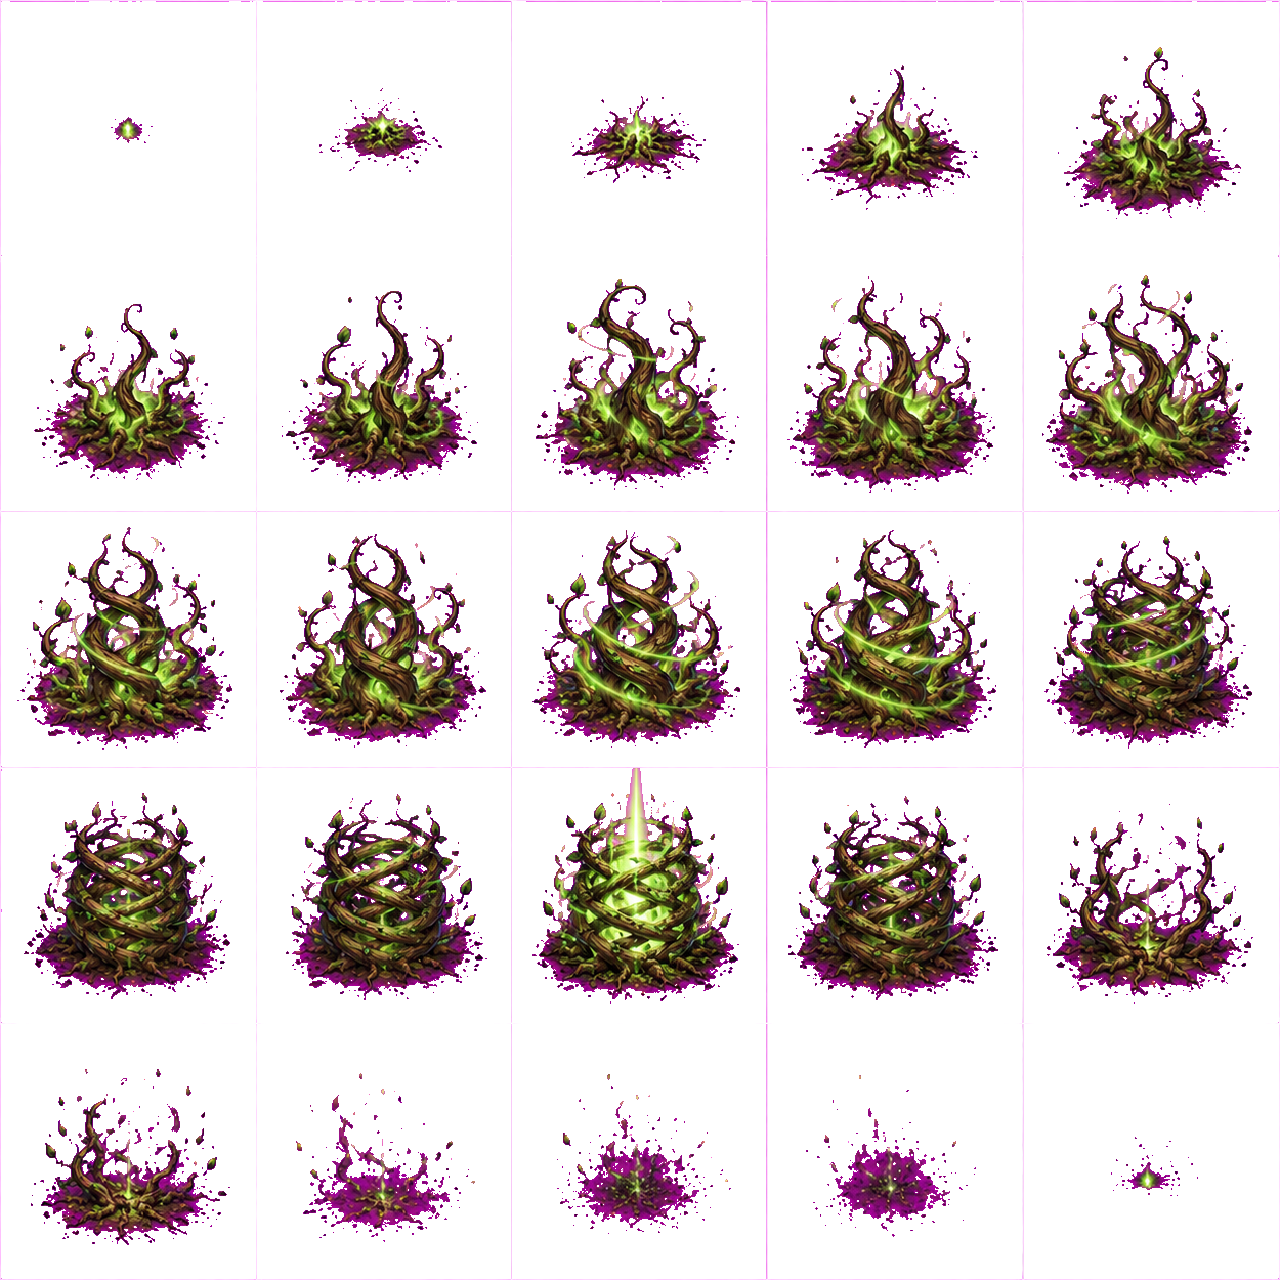
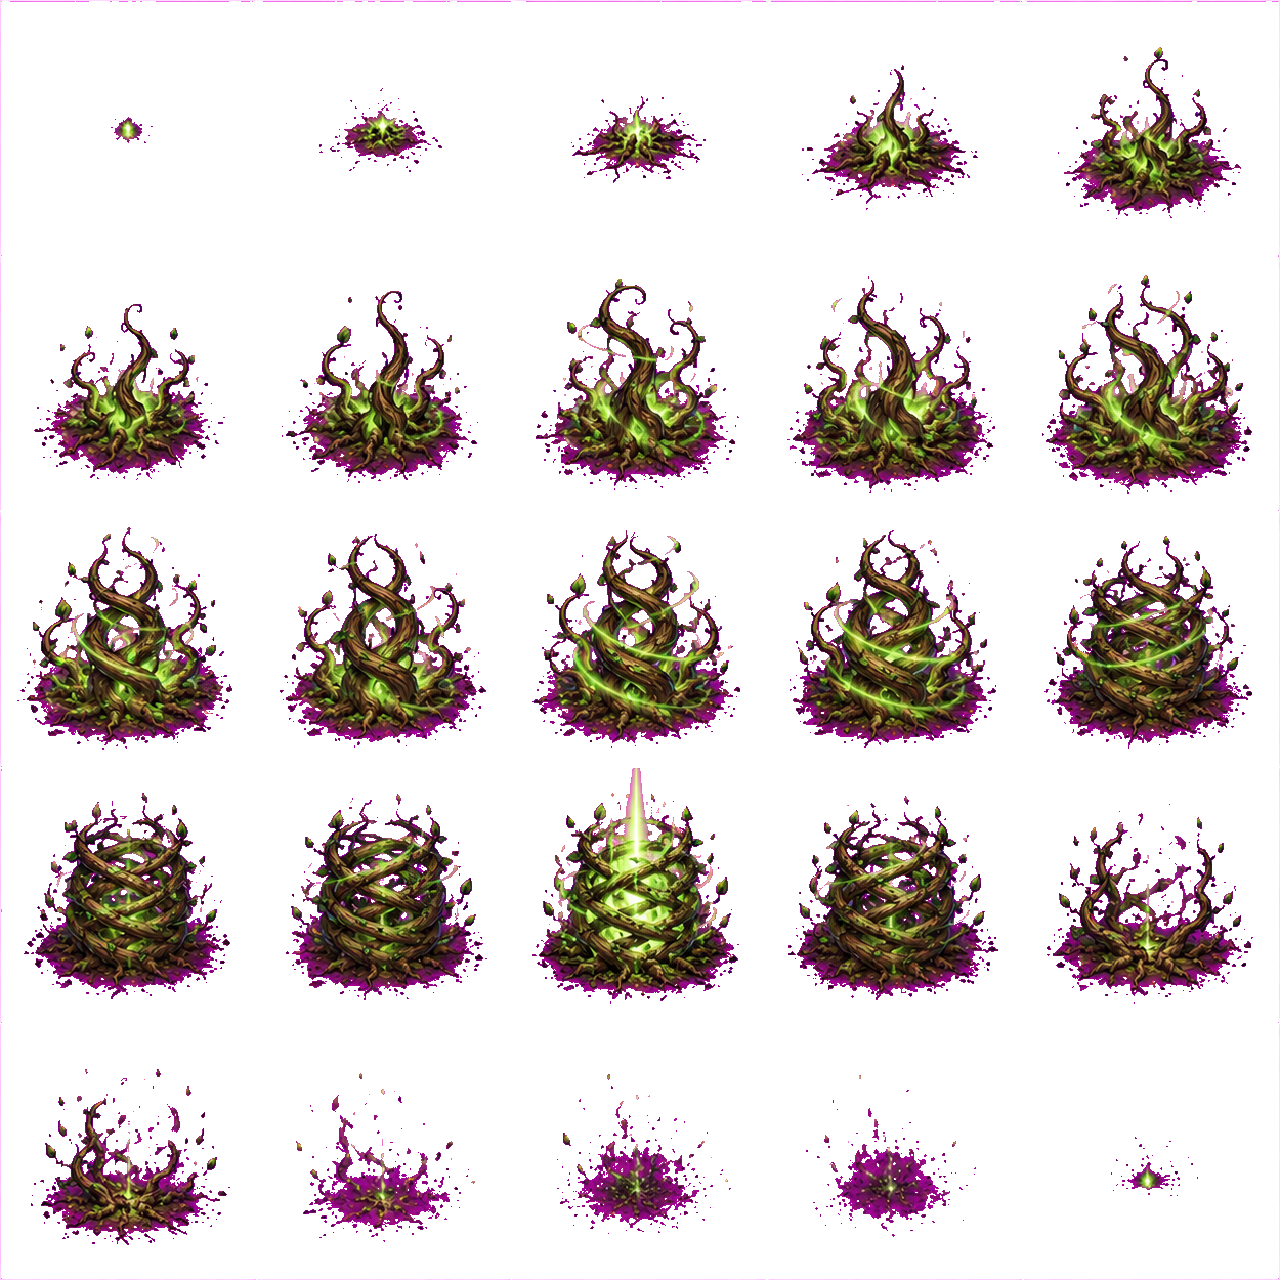
V10F-D: revive vial item, explosive retreat VFX origin, raw sprite cleanup
- Add revive_vial item (Fiole de resurrection, 50% HP revive)
- Revive item only consumed on successful revive, disabled when no KO ally
- ar_explosive_retreat uses origin point for VFX target, skips default hit/shake
- ro_tumble skips action VFX
- playActionVfx/makeActionVfxContext accept visualContext for custom targetPoint
- PNG magenta/separator band validation tests for root_vines and frost_bind
- Remove processed raw sprites (shadow_lightning_bolt, root_vines, frost_bind)

diff --git a/src/combat/legacyCombatRuntime.js b/src/combat/legacyCombatRuntime.js
@@ -658,6 +658,7 @@ const INNATE_GIFTS_BY_WEAPON={
   hand_cannon:{name:'Tir de Zone',desc:"25% des dégâts en zone sur les ennemis adjacents."}
 };
 const ITEMS={
+  revive_vial:{name:'Fiole de résurrection',effect:'revive',power:0.5,range:[0,1],radius:0,desc:'Relève un allié K.O. avec 50% de ses PV.'},
   potion:  {name:'Potion',  effect:'heal', flatHeal:55, range:[0,1], radius:0,   desc:'Rend 55 PV à un allié proche.'},
   ether:   {name:'Éther',   effect:'ap',   apRestore:3, range:[0,1], radius:0,   desc:'Rend 3 AP à un allié proche.'},
   antidote:{name:'Antidote',effect:'cure',              range:[0,1], radius:0,   desc:'Dissipe les altérations négatives d’un allié.'},
@@ -1367,11 +1368,11 @@ function getActionVfxPreset(spec={},u=null){
   if(spec.support)return 'bless_aura';
   return null;
 }
-function makeActionVfxContext(u,targets,cx,cz,spec={}){
+function makeActionVfxContext(u,targets,cx,cz,spec={},visualContext={}){
   const tuning=getActionPresentationTuning(spec),presentation=getSkillPresentation(spec),primary=targets&&targets[0];
-  const targetPoint=primary?.grp
+  const targetPoint=visualContext.targetPoint||(primary?.grp
     ?new THREE.Vector3(primary.grp.position.x,primary.grp.position.y,primary.grp.position.z)
-    :new THREE.Vector3(wX(cx),tileTop(cx,cz),wZ(cz));
+    :new THREE.Vector3(wX(cx),tileTop(cx,cz),wZ(cz)));
   return {
     scene,camera,sourceUnit:u,targetUnits:targets,
     targetPoint,
@@ -1385,12 +1386,12 @@ function makeActionVfxContext(u,targets,cx,cz,spec={}){
     helpers:{wait,screenShake,screenFlash,floatText,wX,wZ,tileTop}
   };
 }
-function playActionVfx(spec,u,targets,cx,cz){
+function playActionVfx(spec,u,targets,cx,cz,visualContext={}){
   const presetId=getActionVfxPreset(spec,u);
   if(!presetId)return null;
   const perTarget=presetId==='heal_burst'||presetId==='bless_aura'||presetId==='guard_barrier'||presetId==='support_holy_aura'||presetId==='arrow_rain';
   const visualTargets=(perTarget&&targets.length>1)?targets.map(target=>[target]):[targets];
-  const results=visualTargets.map(group=>combatVfxSystem.play(presetId,makeActionVfxContext(u,group,cx,cz,spec))).filter(result=>result.played);
+  const results=visualTargets.map(group=>combatVfxSystem.play(presetId,makeActionVfxContext(u,group,cx,cz,spec,visualContext))).filter(result=>result.played);
   if(!results.length)return null;
   const completion=Promise.all(results.map(result=>result.completion)).then(()=>undefined);
   void completion.catch(error=>console.warn('[CombatVfx] Action playback failed safely.',error));
@@ -1412,13 +1413,18 @@ function playFeedbackVfx(presetId,source,target){
   void result.completion.catch(error=>console.warn('[CombatVfx] Feedback playback failed safely.',error));
   return true;
 }
-async function attackAnim(u,spec,cx,cz,targets=[]){ const ctr=new THREE.Vector3(wX(cx),tileTop(cx,cz)+0.6,wZ(cz)); const presentation=getSkillPresentation(spec),preset=getActionMotionPreset(spec),isUltimate=Boolean(presentation?.ultimate),tuning=getActionPresentationTuning(spec),isBossSignature=tuning.tier===6,impactCount=presentation?.impactCount||1;
+async function attackAnim(u,spec,cx,cz,targets=[],actionContext={}){ const ctr=new THREE.Vector3(wX(cx),tileTop(cx,cz)+0.6,wZ(cz)); const presentation=getSkillPresentation(spec),preset=getActionMotionPreset(spec),isUltimate=Boolean(presentation?.ultimate),tuning=getActionPresentationTuning(spec),isBossSignature=tuning.tier===6,impactCount=presentation?.impactCount||1;
   const impact=async()=>{
     if(isUltimate){ floatText(u,'ULTIME','#ffd86a',true); screenFlash('#fff0b0',0.07); screenShake(0.20,0.14); }
     else if(isBossSignature){ floatText(u,'SIGNATURE','#ffb36a',true); screenFlash('#ffb36a',0.055); screenShake(0.22,0.16); }
     if(spec.key!=='attack')castTelegraph(u,spec);
-    const generated=playActionVfx(spec,u,targets,cx,cz);
-    if(generated){ for(let i=1;i<impactCount;i++){ await wait(0.10); playActionVfx(spec,u,targets,cx,cz); } await wait(generated.impactTime+tuning.afterEffectDelay); return; }
+    if(spec.key==='ro_tumble')return;
+    const origin=actionContext.origin;
+    const visualContext=spec.key==='ar_explosive_retreat'&&origin
+      ?{targetPoint:new THREE.Vector3(wX(origin.gx),tileTop(origin.gx,origin.gz),wZ(origin.gz))}
+      :{};
+    const generated=playActionVfx(spec,u,targets,cx,cz,visualContext);
+    if(generated){ for(let i=1;i<impactCount;i++){ await wait(0.10); playActionVfx(spec,u,targets,cx,cz,visualContext); } await wait(generated.impactTime+tuning.afterEffectDelay); return; }
     if(spec.heal||spec.revive||spec.support||spec.apRestore||spec.cure){
       const type=(spec.type==='debuff')?'dark':'heal';
       for(const [gx,gz] of aoeCells(u,spec,cx,cz))vfx(type,new THREE.Vector3(wX(gx),tileTop(gx,gz)+0.6,wZ(gz)));
@@ -1456,7 +1462,10 @@ async function doMove(u,spec,cx,cz){ setFacing(u,cx,cz); const c=cellAt(cx,cz); 
   }
   else if(spec.mode==='leap'){
     const from=u.grp.position.clone(); placeUnit(u,cx,cz); await tweenP(u.grp.position,{x:(from.x+dest.x)/2,y:Math.max(from.y,dest.y)+motion.jumpHeight,z:(from.z+dest.z)/2},motion.jumpUp,easeOutCubic); await tweenP(u.grp.position,{x:dest.x,y:dest.y,z:dest.z},motion.jumpDown,easeInOut);
-    const preset=getActionVfxPreset(spec,u); if(preset==='leap_impact')playActionVfxAt(preset,u,head,spec); else vfx('hit',head); screenShake(0.32,0.22);
+    const preset=getActionVfxPreset(spec,u);
+    if(preset==='leap_impact')playActionVfxAt(preset,u,head,spec);
+    else if(spec.key!=='ar_explosive_retreat')vfx('hit',head);
+    if(spec.key!=='ar_explosive_retreat')screenShake(0.32,0.22);
   }
   else { placeUnit(u,cx,cz); await tweenP(u.grp.position,{x:dest.x,y:dest.y,z:dest.z},motion.dash||0.2,easeOutCubic); screenShake(0.5,0.3); screenFlash('#fff0b0',0.16); vfx('hit',head);
     if(spec.impact){ const hits=aliveUnits().filter(t=>t.team!==u.team&&(Math.abs(t.gx-cx)+Math.abs(t.gz-cz)===1)); for(const t of hits){ const impactSpec={type:'phys',power:spec.power||8}; const crit=Math.random()<critChance(u,t,impactSpec); let {dmg}=computeDamage(u,t,impactSpec); if(crit)dmg=Math.round(dmg*1.5); floatText(t,(crit?'✦ ':'')+'-'+dmg,crit?'#ffd700':'#ffffff',crit); if(crit){ if(!playFeedbackVfx('critical_hit',u,t)){ screenShake(0.5,0.3); screenFlash('#fff3b0',0.18); vfx('crit',t.grp.position.clone().add(new THREE.Vector3(0,1,0))); } logMsg('Coup critique !'); } await applyDamage(t,dmg,u); if(G.over)break; if(t.alive&&crit&&isBreakOpen(t)){ applyStatus(t,'staggered',1); logMsg('Coup critique sur cible essoufflée — Brisé !'); } if(t.alive&&spec.impact.status)applyStatus(t,spec.impact.status,spec.impact.statusTurns); await wait(0.06); } } }
@@ -1570,8 +1579,8 @@ async function executeAction(u,spec,cx,cz){ unitFocus.restore(); hideActionPrevi
   if(spec.key==='attack'&&spec.weaponType==='rapier'&&targets.length){ const t=targets[0]; const dist=Math.abs((u.size>1?bossCenterGX(u):u.gx)-t.gx)+Math.abs((u.size>1?bossCenterGZ(u):u.gz)-t.gz); spec.type=dist>=2?'mag':'phys'; }
   logMsg(u.name+' → '+spec.name);
   await combatStageEnter(u,targets,spec);
-  await attackAnim(u,spec,impactCx,impactCz,targets);
-  if(spec.item&&spec.itemId)G.inv[spec.itemId]=Math.max(0,(G.inv[spec.itemId]||0)-1);
+  await attackAnim(u,spec,impactCx,impactCz,targets,context);
+  if(spec.item&&spec.itemId&&!spec.revive)G.inv[spec.itemId]=Math.max(0,(G.inv[spec.itemId]||0)-1);
   // Process effects[] if present (multi-effect system)
   if(spec.effects&&spec.effects.length){
     let totalDamageDealt=0;
@@ -1611,7 +1620,7 @@ async function executeAction(u,spec,cx,cz){ unitFocus.restore(); hideActionPrevi
     const lsEffect=spec.effects.find(e=>e.kind==='lifesteal');
     if(lsEffect&&totalDamageDealt>0&&u.alive){ const lsPct=lsEffect.lifestealPercent||0; const healAmt=Math.round(totalDamageDealt*lsPct); if(healAmt>0){ applyHeal(u,healAmt); } }
   } else if(spec.heal){ for(const t of targets)applyHeal(t,spec.healPercent!=null?Math.round(t.maxhp*spec.healPercent):(spec.flatHeal!=null?spec.flatHeal:Math.round(effMAG(u)*spec.power))+Math.floor(effCHA(u)/4)); await wait(0.25); }
-  else if(spec.revive){ for(const t of targets)reviveUnit(t,Math.round(t.maxhp*spec.power)); await wait(0.25); }
+  else if(spec.revive){ let revived=0; for(const t of targets){ if(!t.alive&&t.downed&&t.team===u.team){ reviveUnit(t,Math.round(t.maxhp*spec.power)); revived++; } } if(revived>0&&spec.item&&spec.itemId)G.inv[spec.itemId]=Math.max(0,(G.inv[spec.itemId]||0)-1); await wait(0.25); }
   else if(spec.apRestore){ for(const t of targets){ t.ap=Math.min(t.maxap,t.ap+spec.apRestore); floatText(t,'+'+spec.apRestore+' AP','#7fd0ff',true); flashUnit(t,'#bfe0ff'); refreshPanel(t); } await wait(0.25); }
   else if(spec.cure){ for(const t of targets){ let n=0; for(const s in t.statuses){ if(isNegative(s)){ delete t.statuses[s]; n++; } } floatText(t,n?'PURIFIÉ':'—',n?'#7ed957':'#cfd6e6',true); flashUnit(t,'#bfffc0'); refreshPanel(t); } await wait(0.25); }
   else { let basicDmg=0; for(const t of targets){ const friendly=t.team===u.team;
@@ -1961,6 +1970,7 @@ function openSkillMenu(){ const u=G.active; dom.skillmenu.classList.remove('hidd
   dom.skillmenu.innerHTML=h; dom.skillmenu.querySelectorAll('.btn').forEach(b=>b.onclick=()=>{ if(b.classList.contains('dis'))return; const id=b.dataset.s; if(id==='_back'){ dom.skillmenu.classList.add('hidden'); return; } enterTarget(getSpec(u,id)); }); }
 function itemSpec(id){ const it=ITEMS[id]; const base={key:'item',itemId:id,name:it.name,ap:1+G.itemsUsedThisTurn,range:it.range,radius:it.radius||0,self:false,item:true,desc:it.desc};
   if(it.effect==='heal')  return Object.assign(base,{type:'heal',power:0,heal:true,support:true,flatHeal:it.flatHeal});
+  if(it.effect==='revive')return Object.assign(base,{type:'revive',power:it.power||0.5,revive:true,support:true,targetMode:'ally'});
   if(it.effect==='ap')    return Object.assign(base,{type:'buff',power:0,support:true,apRestore:it.apRestore});
   if(it.effect==='cure')  return Object.assign(base,{type:'buff',power:0,support:true,cure:true});
   if(it.effect==='bomb')  return Object.assign(base,{type:'mag', power:0,offensive:true,acc:1,flatDmg:it.flatDmg});
@@ -1968,7 +1978,7 @@ function itemSpec(id){ const it=ITEMS[id]; const base={key:'item',itemId:id,name
   return base; }
 function invCount(){ let n=0; for(const k in G.inv)n+=G.inv[k]; return n; }
 function openItemMenu(){ const u=G.active; dom.skillmenu.classList.remove('hidden'); const nextCost=G.itemsUsedThisTurn+1; let h='<div class="ttl">Objets — sac commun · '+u.ap+' AP</div>'; let any=false;
-  for(const id in ITEMS){ const n=G.inv[id]||0; const it=ITEMS[id]; const dis=n<=0||u.ap<nextCost; if(n>0)any=true; h+='<div class="btn '+(dis?'dis':'')+'" data-i="'+id+'" title="'+it.desc+'">'+it.name+' <small>×'+n+' · '+nextCost+' AP</small></div>'; }
+  for(const id in ITEMS){ const n=G.inv[id]||0; const it=ITEMS[id]; const hasKoAlly=it.effect!=='revive'||G.units.some(x=>!x.alive&&x.downed&&x.team===u.team); const dis=n<=0||u.ap<nextCost||!hasKoAlly; if(n>0)any=true; h+='<div class="btn '+(dis?'dis':'')+'" data-i="'+id+'" title="'+it.desc+'">'+it.name+' <small>×'+n+' · '+nextCost+' AP</small></div>'; }
   if(!any)h+='<div class="btn dis">Sac vide</div>';
   h+='<div class="btn" data-i="_back">Retour</div>';
   dom.skillmenu.innerHTML=h; dom.skillmenu.querySelectorAll('.btn').forEach(b=>b.onclick=()=>{ if(b.classList.contains('dis'))return; const id=b.dataset.i; if(id==='_back'){ dom.skillmenu.classList.add('hidden'); return; } enterTarget(itemSpec(id)); }); }

diff --git a/src/combat/vfx/VfxSpriteSheets.test.ts b/src/combat/vfx/VfxSpriteSheets.test.ts
@@ -1,5 +1,6 @@
 import { describe, expect, it } from 'vitest';
 import { existsSync, readFileSync } from 'node:fs';
+import { inflateSync } from 'node:zlib';
 import runtimeV1Manifest from '../../../public/assets/vfx/runtime/v1/manifest.json';
 import runtimeV2Manifest from '../../../public/assets/vfx/runtime/v2/manifest.json';
 import { VFX_PRESETS } from './VfxPresets';
@@ -33,6 +34,46 @@ function readPngHeader(path: URL) {
     bitDepth: buffer[24],
     colorType: buffer[25],
   };
+}
+
+function decodeRgbaPng(path: URL) {
+  const png = readFileSync(path);
+  const width = png.readUInt32BE(16);
+  const height = png.readUInt32BE(20);
+  const chunks: Buffer[] = [];
+  for (let offset = 8; offset < png.length;) {
+    const length = png.readUInt32BE(offset);
+    const type = png.toString('ascii', offset + 4, offset + 8);
+    if (type === 'IDAT') chunks.push(png.subarray(offset + 8, offset + 8 + length));
+    offset += length + 12;
+    if (type === 'IEND') break;
+  }
+  const encoded = inflateSync(Buffer.concat(chunks));
+  const stride = width * 4;
+  const pixels = Buffer.alloc(stride * height);
+  const paeth = (a: number, b: number, c: number) => {
+    const p = a + b - c;
+    const pa = Math.abs(p - a), pb = Math.abs(p - b), pc = Math.abs(p - c);
+    return pa <= pb && pa <= pc ? a : pb <= pc ? b : c;
+  };
+  for (let y = 0; y < height; y++) {
+    const filter = encoded[y * (stride + 1)] ?? 0;
+    const source = y * (stride + 1) + 1;
+    const target = y * stride;
+    for (let x = 0; x < stride; x++) {
+      const raw = encoded[source + x] ?? 0;
+      const left = x >= 4 ? (pixels[target + x - 4] ?? 0) : 0;
+      const up = y > 0 ? (pixels[target + x - stride] ?? 0) : 0;
+      const upperLeft = y > 0 && x >= 4 ? (pixels[target + x - stride - 4] ?? 0) : 0;
+      const predictor: number =
+        filter === 1 ? left :
+        filter === 2 ? up :
+        filter === 3 ? Math.floor((left + up) / 2) :
+        filter === 4 ? paeth(left, up, upperLeft) : 0;
+      pixels[target + x] = (raw + predictor) & 0xff;
+    }
+  }
+  return { width, height, pixels };
 }
 
 describe('combat VFX sprite sheets', () => {
@@ -93,6 +134,40 @@ describe('combat VFX sprite sheets', () => {
       expect(step.spriteSheet).toBeDefined();
       expect(VFX_SPRITE_SHEET_IDS).toContain(step.spriteSheet);
       if (step.sheetMode === 'projectile') expect(step.targetAnchor).toBeDefined();
+    }
+  });
+
+  it('keeps root_vines and frost_bind free of magenta and separator bands', () => {
+    for (const id of ['root_vines', 'frost_bind'] as const) {
+      const definition = VFX_SPRITE_SHEETS[id];
+      const { width, height, pixels } = decodeRgbaPng(runtimePath(definition.url));
+      let opaqueMagenta = 0;
+      for (let offset = 0; offset < pixels.length; offset += 4) {
+        if (
+          (pixels[offset + 3] ?? 0) > 8 &&
+          (pixels[offset] ?? 0) > 230 &&
+          (pixels[offset + 1] ?? 0) < 40 &&
+          (pixels[offset + 2] ?? 0) > 230
+        ) opaqueMagenta++;
+      }
+      expect(opaqueMagenta, `${id} opaque magenta pixels`).toBe(0);
+
+      for (const boundary of [256, 512, 768, 1024]) {
+        for (let delta = -2; delta <= 1; delta++) {
+          const x = boundary + delta;
+          const y = boundary + delta;
+          let columnOpaque = 0;
+          let rowOpaque = 0;
+          for (let index = 0; index < height; index++) {
+            if ((pixels[(index * width + x) * 4 + 3] ?? 0) > 8) columnOpaque++;
+          }
+          for (let index = 0; index < width; index++) {
+            if ((pixels[(y * width + index) * 4 + 3] ?? 0) > 8) rowOpaque++;
+          }
+          expect(columnOpaque, `${id} separator column ${x}`).toBeLessThan(height / 2);
+          expect(rowOpaque, `${id} separator row ${y}`).toBeLessThan(width / 2);
+        }
+      }
     }
   });
 });

diff --git a/src/combat/skillPresentation.ts b/src/combat/skillPresentation.ts
@@ -155,12 +155,12 @@ export const SKILL_PRESENTATION: Readonly<Record<HeroSkillId, SkillPresentation>
   ni_silent_assassin: presentation('melee_heavy', 'ultimate_silent_assassin', 'ultimateCast', 'impact', true),
 
   ro_sneak_attack: presentation('melee_light', 'sword_slash', 'strike', 'impact', undefined, undefined, { orientation: 'source_to_target', scaleTier: '2ap' }),
-  ro_tumble: presentation('move_leap', 'sword_slash', 'leapLanding', 'landing'),
-  ro_jaw_trap: presentation('melee_heavy', 'root_vines', 'strike', 'impact', undefined, undefined, { orientation: 'center_on_target', scaleTier: '3ap' }),
+  ro_tumble: presentation('move_leap', 'leap_impact', 'leapLanding', 'landing', undefined, undefined, { orientation: 'source_to_destination', scaleTier: '3ap' }),
+  ro_jaw_trap: presentation('melee_heavy', 'root_vines', 'strike', 'impact', undefined, undefined, { orientation: 'center_on_target', scaleTier: '4ap' }),
   ro_fault_breaker: presentation('melee_heavy', 'ultimate_fault_breaker', 'ultimateCast', 'impact', true, undefined, { orientation: 'center_on_aoe_origin', scaleTier: '5ap_ultimate' }),
 
   ar_calibrated_shot: presentation('ranged_attack', 'arrow_shot', 'rangedShot', 'release', undefined, undefined, { orientation: 'source_to_target', scaleTier: '2ap' }),
-  ar_explosive_retreat: presentation('move_leap', 'blunt_impact', 'retreat', 'impact'),
+  ar_explosive_retreat: presentation('move_leap', 'impact_explosion_large', 'retreat', 'impact', undefined, undefined, { orientation: 'center_on_aoe_origin', scaleTier: '3ap' }),
   ar_incendiary_grenade: presentation('ranged_attack', 'impact_explosion_large', 'areaCast', 'release', undefined, undefined, { orientation: 'center_on_aoe_origin', scaleTier: '4ap' }),
   ar_artillery_barrage: presentation('ranged_attack', 'ultimate_artillery_barrage', 'ultimateCast', 'impact', true, 3),
 });
@@ -191,12 +191,12 @@ export const ENEMY_SKILL_PRESENTATION: Readonly<Record<EnemySkillId, SkillPresen
   boss_slam: bossSignature('melee_heavy', 'boss_slam', 'areaCast', 'impact', { orientation: 'center_on_aoe_origin' }),
   boss_roar: bossSignature('debuff_cast', 'caster_roar', 'areaCast', 'release', { orientation: 'center_on_aoe_origin' }),
   boss_quake: bossSignature('magic_cast', 'boss_quake', 'rangedShot', 'impact'),
-  boss_guard: presentation('buff_cast', 'guard_barrier', 'supportCast', 'release'),
+  boss_guard: presentation('buff_cast', 'guard_barrier', 'supportCast', 'release', undefined, undefined, { scaleTier: 'boss' }),
   boss_apocalypse: bossSignature('magic_cast', 'boss_apocalypse_v2', 'areaCast', 'impact', { orientation: 'center_on_aoe_origin' }),
-  boss_regen: presentation('buff_cast', 'support_regen_aura', 'supportCast', 'release'),
-  boss_fortify: presentation('buff_cast', 'bless_aura', 'supportCast', 'release'),
+  boss_regen: presentation('buff_cast', 'support_regen_aura', 'supportCast', 'release', undefined, undefined, { scaleTier: 'boss' }),
+  boss_fortify: presentation('buff_cast', 'bless_aura', 'supportCast', 'release', undefined, undefined, { scaleTier: 'boss' }),
   boss_freeze: presentation('magic_cast', 'frost_bind', 'rangedShot', 'impact', undefined, undefined, { orientation: 'center_on_target', scaleTier: 'boss' }),
-  boss_pin: presentation('ranged_attack', 'arrow_shot', 'rangedShot', 'impact'),
+  boss_pin: presentation('ranged_attack', 'arrow_shot', 'rangedShot', 'impact', undefined, undefined, { orientation: 'source_to_target', scaleTier: 'boss' }),
   boss_execution: bossSignature('melee_heavy', 'boss_execution', 'strike', 'impact'),
   boss_flurry: bossSignature('melee_heavy', 'boss_flurry', 'strike', 'impact'),
   boss_inferno: bossSignature('magic_cast', 'boss_inferno', 'areaCast', 'impact'),

diff --git a/src/combat/legacyCombatRuntime.hotfix.test.ts b/src/combat/legacyCombatRuntime.hotfix.test.ts
@@ -1,0 +1,26 @@
+import { describe, expect, it } from 'vitest';
+import { readFileSync } from 'node:fs';
+
+const runtimeSource = readFileSync(new URL('./legacyCombatRuntime.js', import.meta.url), 'utf8');
+
+describe('V10F final hotfix runtime contracts', () => {
+  it('wires revive_vial through the existing KO ally flow only', () => {
+    expect(runtimeSource).toContain(
+      "revive_vial:{name:'Fiole de résurrection',effect:'revive',power:0.5,range:[0,1]",
+    );
+    expect(runtimeSource).toContain(
+      "if(it.effect==='revive')return Object.assign(base,{type:'revive',power:it.power||0.5,revive:true,support:true,targetMode:'ally'})",
+    );
+    expect(runtimeSource).toContain("if(spec.item&&spec.itemId&&!spec.revive)");
+    expect(runtimeSource).toContain("if(revived>0&&spec.item&&spec.itemId)");
+    expect(runtimeSource).toContain("it.effect!=='revive'||G.units.some(x=>!x.alive&&x.downed&&x.team===u.team)");
+    expect(runtimeSource).toContain("if(spec.revive)return 'support_revive_pillar'");
+  });
+
+  it('anchors retreat impact at departure and tumble impact at landing', () => {
+    expect(runtimeSource).toContain("spec.key==='ar_explosive_retreat'&&origin");
+    expect(runtimeSource).toContain("if(spec.key==='ro_tumble')return");
+    expect(runtimeSource).toContain("if(preset==='leap_impact')playActionVfxAt(preset,u,head,spec)");
+    expect(runtimeSource).toContain("else if(spec.key!=='ar_explosive_retreat')vfx('hit',head)");
+  });
+});

diff --git a/src/combat/skillPresentation.test.ts b/src/combat/skillPresentation.test.ts
@@ -93,13 +93,26 @@ describe('hero skill action contracts', () => {
       ['n_flame_wave', 'shape_cone_blast', 'align_cone', '4ap'],
       ['w_purify', 'support_holy_aura', 'center_on_target', '3ap'],
       ['e_binding_seal', 'root_vines', 'center_on_target', '4ap'],
-      ['ro_jaw_trap', 'root_vines', 'center_on_target', '3ap'],
+      ['ro_jaw_trap', 'root_vines', 'center_on_target', '4ap'],
+      ['ro_tumble', 'leap_impact', 'source_to_destination', '3ap'],
+      ['ar_explosive_retreat', 'impact_explosion_large', 'center_on_aoe_origin', '3ap'],
     ] as const;
 
     for (const [id, vfxPreset, orientation, scaleTier] of contracts) {
       expect(getSkillPresentation({ key: id })).toMatchObject({ vfxPreset, orientation, scaleTier });
       expect(VFX_PRESET_IDS).toContain(vfxPreset);
     }
+  });
+
+  it('keeps boss support and pin visuals at boss scale without boss-signature semantics', () => {
+    for (const id of ['boss_guard', 'boss_regen', 'boss_fortify'] as const) {
+      expect(getSkillPresentation({ key: id })).toMatchObject({ scaleTier: 'boss' });
+      expect(getSkillPresentation({ key: id })?.visualTier).not.toBe(6);
+    }
+    expect(getSkillPresentation({ key: 'boss_pin' })).toMatchObject({
+      orientation: 'source_to_target',
+      scaleTier: 'boss',
+    });
   });
 
   it('keeps dark lightning distinct from teleport and curse presentation', () => {
